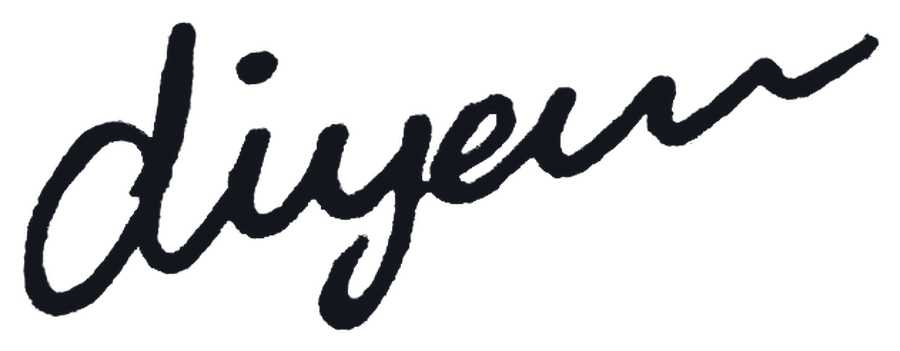
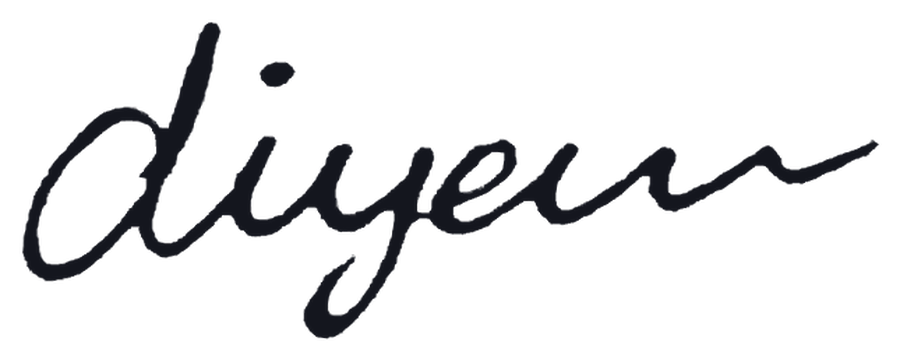
Level and thin Diya Menon's signature; keep photo labels clear at every width
Claude-Session: https://claude.ai/code/session_01EH3gEm2zaJjpY6PQMUqzRX

Changed region(s): [[0.0, 0.057, 0.9956, 0.9402]]

diff --git a/app/globals.css b/app/globals.css
@@ -470,5 +470,9 @@ a.tile-link:focus-visible { outline: 3px solid var(--yellow); outline-offset: 3p
 .sg-signatures { display: flex; flex-wrap: wrap; align-items: flex-end; gap: 32px; margin: -8px 0 -12px; }
 .sg-signatures img { width: min(240px, 46%); height: auto; }
 .sg-signatures img.sig-diya { width: min(170px, 34%); }
-.portrait:has(.sg-photos) .portrait-accent { bottom: 108px; }
+/* Each photo carries its own yellow offset, so nothing can sit behind the names at any width. */
+.portrait:has(.sg-photos) { padding: 0 14px 0 0; }
+.portrait:has(.sg-photos) .portrait-accent { display: none; }
+.sg-photo img { box-shadow: 14px 14px 0 var(--yellow); }
+.sg-photo figcaption { margin-top: 24px; }
 @media (max-width: 1100px) { .letter:has(.sg-photos) .portrait { order: -1; } }
